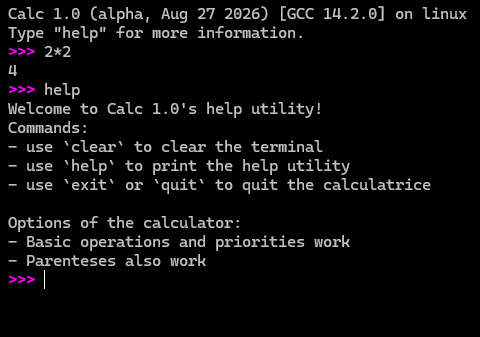
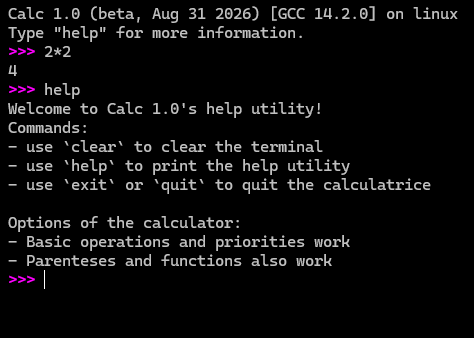
refactor: improve code structure

diff --git a/src/calculator.cpp b/src/calculator.cpp
@@ -42,7 +42,7 @@ namespace calc
 		return 0;
 	}
 
-	std::optional<long double> doCalcul( const std::string& calcul )
+	std::optional<long double> sortOperation( const std::string& calcul )
 	{
 		for(int x{0}; x < 3; ++x)
 		{
@@ -66,11 +66,11 @@ namespace calc
 
 					//définition du calcul de gauche
 					calculStruct.calculLeft = { std::begin(calcul), std::begin(calcul) + i };
-					calculStruct.resultLeft = doCalcul(calculStruct.calculLeft);
+					calculStruct.resultLeft = sortOperation(calculStruct.calculLeft);
 
 					//définition du calcul de droite
 					calculStruct.calculRight = { std::begin(calcul) + i + 1, std::end(calcul) };
-					calculStruct.resultRight = doCalcul(calculStruct.calculRight);
+					calculStruct.resultRight = sortOperation(calculStruct.calculRight);
 
 					//vérifie si le résultat correspond à une erreure
 					if ( !calculStruct.resultLeft || !calculStruct.resultRight ) { return std::nullopt; }
@@ -92,7 +92,49 @@ namespace calc
 		}
 	}
 
-	std::optional<long double> sortCalcul( std::string calcul )
+	class Function
+	{
+	private:
+		std::string m_name{};
+		std::string m_calcul{};
+
+		std::string m_result{};
+
+	public:
+		bool searchFunction( const std::string& calcul, std::string::iterator parenthesesBegin, std::string::iterator parenthesesEnd )
+		{	
+			if ( std::string{parenthesesBegin - 2, parenthesesBegin} == "pi" && parenthesesEnd == parenthesesBegin + 1 )
+			{
+				m_name = "pi";
+			}
+			else if ( std::string{parenthesesBegin - 4, parenthesesBegin} == "sqrt" )
+			{
+				m_name = "sqrt";
+			}
+			else
+			{
+				return false;
+			}
+
+			m_calcul = std::string{ parenthesesBegin + 1, parenthesesEnd };
+			
+			return true;
+		}
+
+		void doFunction()
+		{
+			if ( m_name == "pi" )
+			{
+				m_result = std::to_string(M_PI);
+			}
+			else if ( m_name == "sqrt" )
+			{
+				m_result = std::to_string( std::sqrt( *inputParser( std::string{ m_calcul } ) ) );
+			}
+		}
+	};
+
+	std::optional<long double> inputParser( std::string calcul )
 	{
 		std::string parenthesesCalcul {calcul};
 
@@ -131,13 +173,13 @@ namespace calc
 					}
 					else if(std::string{parenthesesBegin - 4, parenthesesBegin} == "sqrt" && parenthesesEnd != parenthesesBegin + 1 )
 					{
-						calcul.replace( parenthesesBegin - 4, parenthesesEnd + 1, std::to_string( std::sqrt( *sortCalcul(std::string( parenthesesBegin + 1, parenthesesEnd)) ) ) );
+						calcul.replace( parenthesesBegin - 4, parenthesesEnd + 1, std::to_string( std::sqrt( *inputParser(std::string( parenthesesBegin + 1, parenthesesEnd)) ) ) );
 						it = std::begin(calcul);
 						continue;
 					}
 
 					//appelle récusif de la fonction doParentheses jusqu'il n'y ai plus de parenthèses
-					std::optional<long double> parenthesesResult { sortCalcul(std::string( parenthesesBegin + 1, parenthesesEnd )) };
+					std::optional<long double> parenthesesResult { inputParser(std::string( parenthesesBegin + 1, parenthesesEnd )) };
 
 					//vérifie si parenthesesResult renvoit une erreure(venant de doCalcul())
 					if ( !parenthesesResult ) { return std::nullopt; };
@@ -152,6 +194,6 @@ namespace calc
 		}
 
 		//si la string ne contient pas de parenthèses, retourne le résultat du calcul
-		return doCalcul(calcul);
+		return sortOperation(calcul);
 	}
 }

diff --git a/src/main.cpp b/src/main.cpp
@@ -36,20 +36,20 @@ int main()
 
 	//tests pour les calculs
 	#ifdef DEBUG
-	assert( calc::sortCalcul( "2*2" ) == 4 );
-	assert( calc::sortCalcul( "2+2" ) == 4 );
-	assert( calc::sortCalcul( "2-2" ) == 0 );
-	assert( calc::sortCalcul( "2/2" ) == 1 );
-	assert( calc::sortCalcul( "2^3" ) == 8 );
-	assert( calc::sortCalcul( "2%2" ) == 0 );
-	assert( calc::sortCalcul( "2*2/2" ) == 2 );
-	assert( calc::sortCalcul( "2+2-2" ) == 2 );
-	assert( calc::sortCalcul( "2*2+2" ) == 6 );
-	assert( calc::sortCalcul( "2+2*2" ) == 6 );
-	assert( calc::sortCalcul( "2/2-2" ) == -1 );
-	assert( calc::sortCalcul( "2-2/2" ) == 1 );
-	assert( calc::sortCalcul( "2*2/2*2" ) == 4 );
-	assert( calc::sortCalcul( "2+2-2+2" ) == 4 );
+	assert( calc::inputParser( "2*2" ) == 4 );
+	assert( calc::inputParser( "2+2" ) == 4 );
+	assert( calc::inputParser( "2-2" ) == 0 );
+	assert( calc::inputParser( "2/2" ) == 1 );
+	assert( calc::inputParser( "2^3" ) == 8 );
+	assert( calc::inputParser( "2%2" ) == 0 );
+	assert( calc::inputParser( "2*2/2" ) == 2 );
+	assert( calc::inputParser( "2+2-2" ) == 2 );
+	assert( calc::inputParser( "2*2+2" ) == 6 );
+	assert( calc::inputParser( "2+2*2" ) == 6 );
+	assert( calc::inputParser( "2/2-2" ) == -1 );
+	assert( calc::inputParser( "2-2/2" ) == 1 );
+	assert( calc::inputParser( "2*2/2*2" ) == 4 );
+	assert( calc::inputParser( "2+2-2+2" ) == 4 );
 	#endif
 
 	while(true)
@@ -73,7 +73,7 @@ int main()
 			break;
 		}
 
-		std::optional<long double> result = calc::sortCalcul(input);
+		std::optional<long double> result = calc::inputParser(input);
 
 		//test si le résultat correspond à une erreure
 		if (!result)

diff --git a/src/commands.cpp b/src/commands.cpp
@@ -36,20 +36,20 @@ Command doCommand( std::string_view input )
     }
     else if ( input == "debug" )
     {
-        assert( calc::doCalcul( "2*2" ) == 4 );
-        assert( calc::doCalcul( "2+2" ) == 4 );
-        assert( calc::doCalcul( "2-2" ) == 0 );
-        assert( calc::doCalcul( "2/2" ) == 1 );
-        assert( calc::doCalcul( "2^3" ) == 8 );
-        assert( calc::doCalcul( "2%2" ) == 0 );
-        assert( calc::doCalcul( "2*2/2" ) == 2 );
-        assert( calc::doCalcul( "2+2-2" ) == 2 );
-        assert( calc::doCalcul( "2*2+2" ) == 6 );
-        assert( calc::doCalcul( "2+2*2" ) == 6 );
-        assert( calc::doCalcul( "2/2-2" ) == -1 );
-        assert( calc::doCalcul( "2-2/2" ) == 1 );
-        assert( calc::doCalcul( "2*2/2*2" ) == 4 );
-        assert( calc::doCalcul( "2+2-2+2" ) == 4 );
+	assert( calc::inputParser( "2*2" ) == 4 );
+	assert( calc::inputParser( "2+2" ) == 4 );
+	assert( calc::inputParser( "2-2" ) == 0 );
+	assert( calc::inputParser( "2/2" ) == 1 );
+	assert( calc::inputParser( "2^3" ) == 8 );
+	assert( calc::inputParser( "2%2" ) == 0 );
+	assert( calc::inputParser( "2*2/2" ) == 2 );
+	assert( calc::inputParser( "2+2-2" ) == 2 );
+	assert( calc::inputParser( "2*2+2" ) == 6 );
+	assert( calc::inputParser( "2+2*2" ) == 6 );
+	assert( calc::inputParser( "2/2-2" ) == -1 );
+	assert( calc::inputParser( "2-2/2" ) == 1 );
+	assert( calc::inputParser( "2*2/2*2" ) == 4 );
+	assert( calc::inputParser( "2+2-2+2" ) == 4 );
 
         std::cout << "Calc works fine!!!\n";
         return command;

diff --git a/src/calculator.h b/src/calculator.h
@@ -16,8 +16,8 @@ namespace calc
 	};
 
 	std::optional<long double> doOperation( Calcul operationStruct );
-	std::optional<long double> doCalcul( const std::string& calcul );
-	std::optional<long double> sortCalcul( std::string calcul );
+	std::optional<long double> sortOperation( const std::string& calcul );
+	std::optional<long double> inputParser( std::string calcul );
 }
 
 #endif
